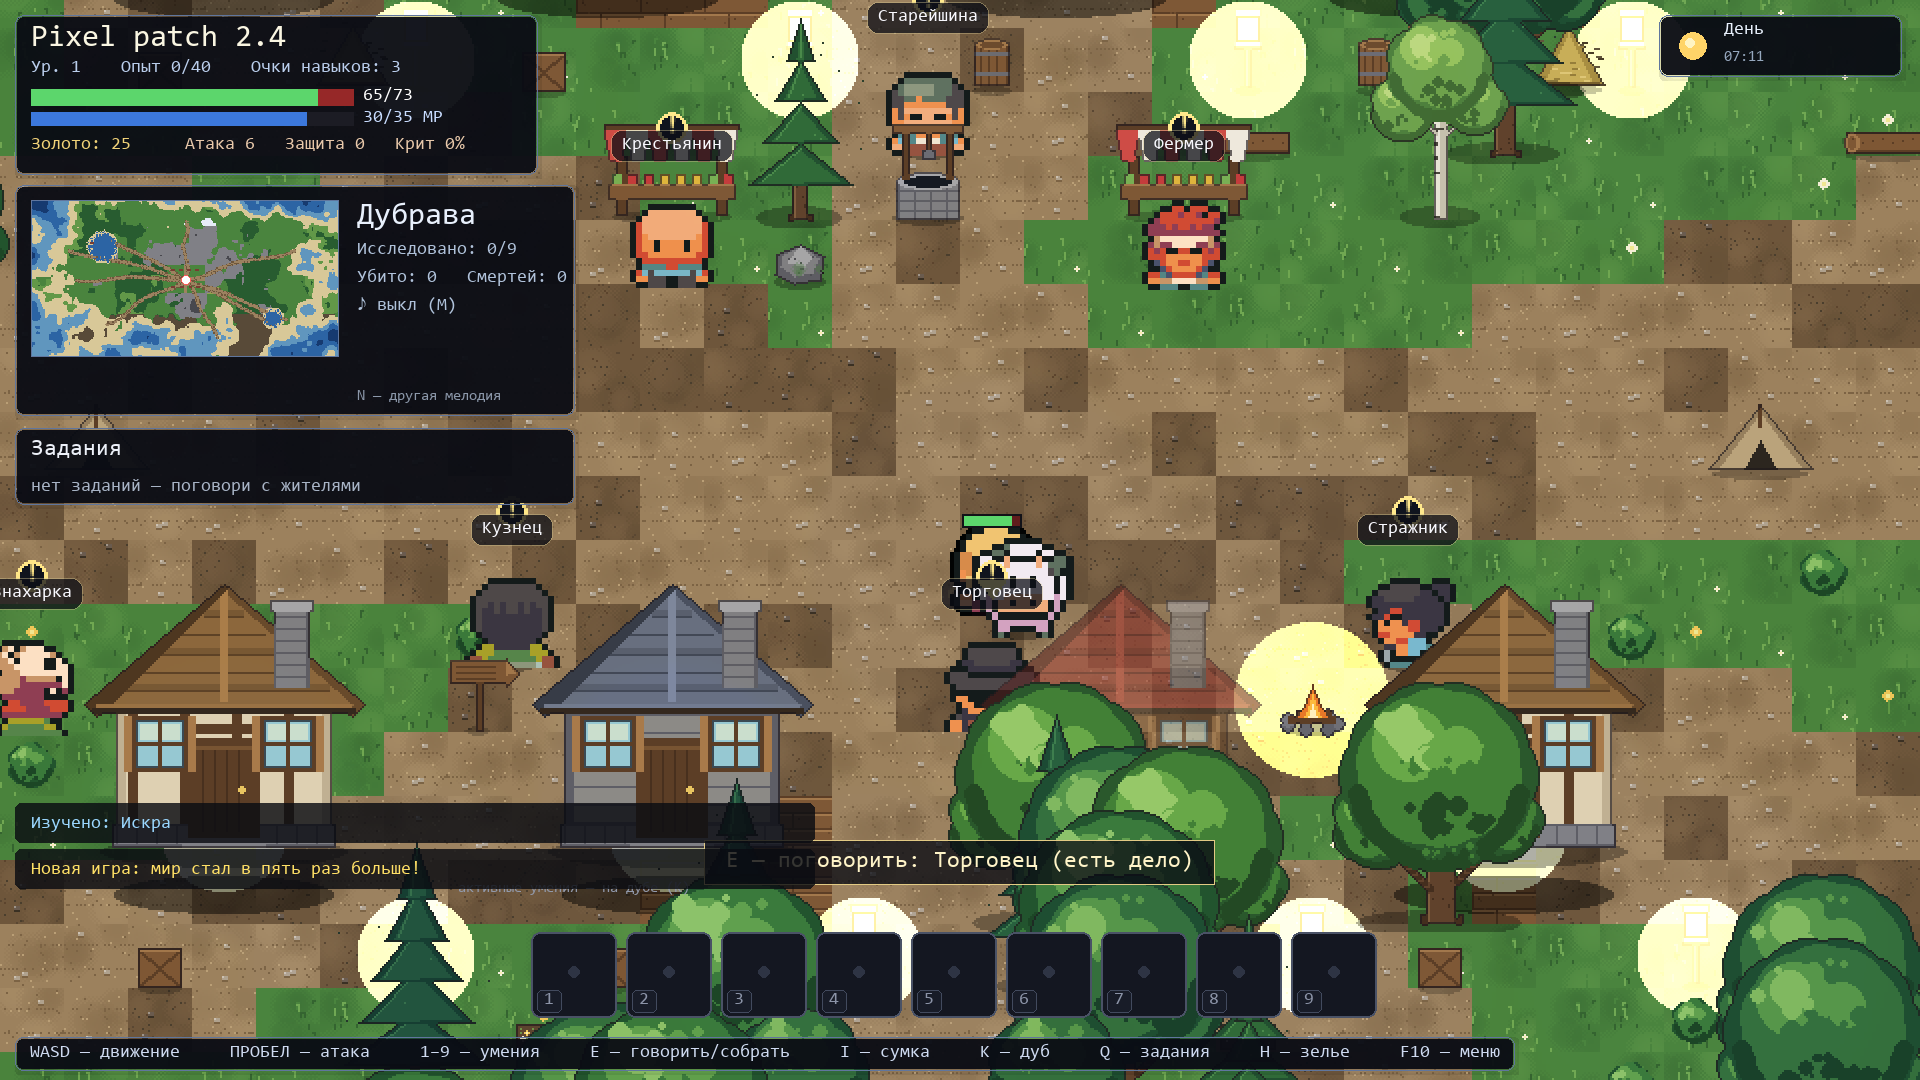
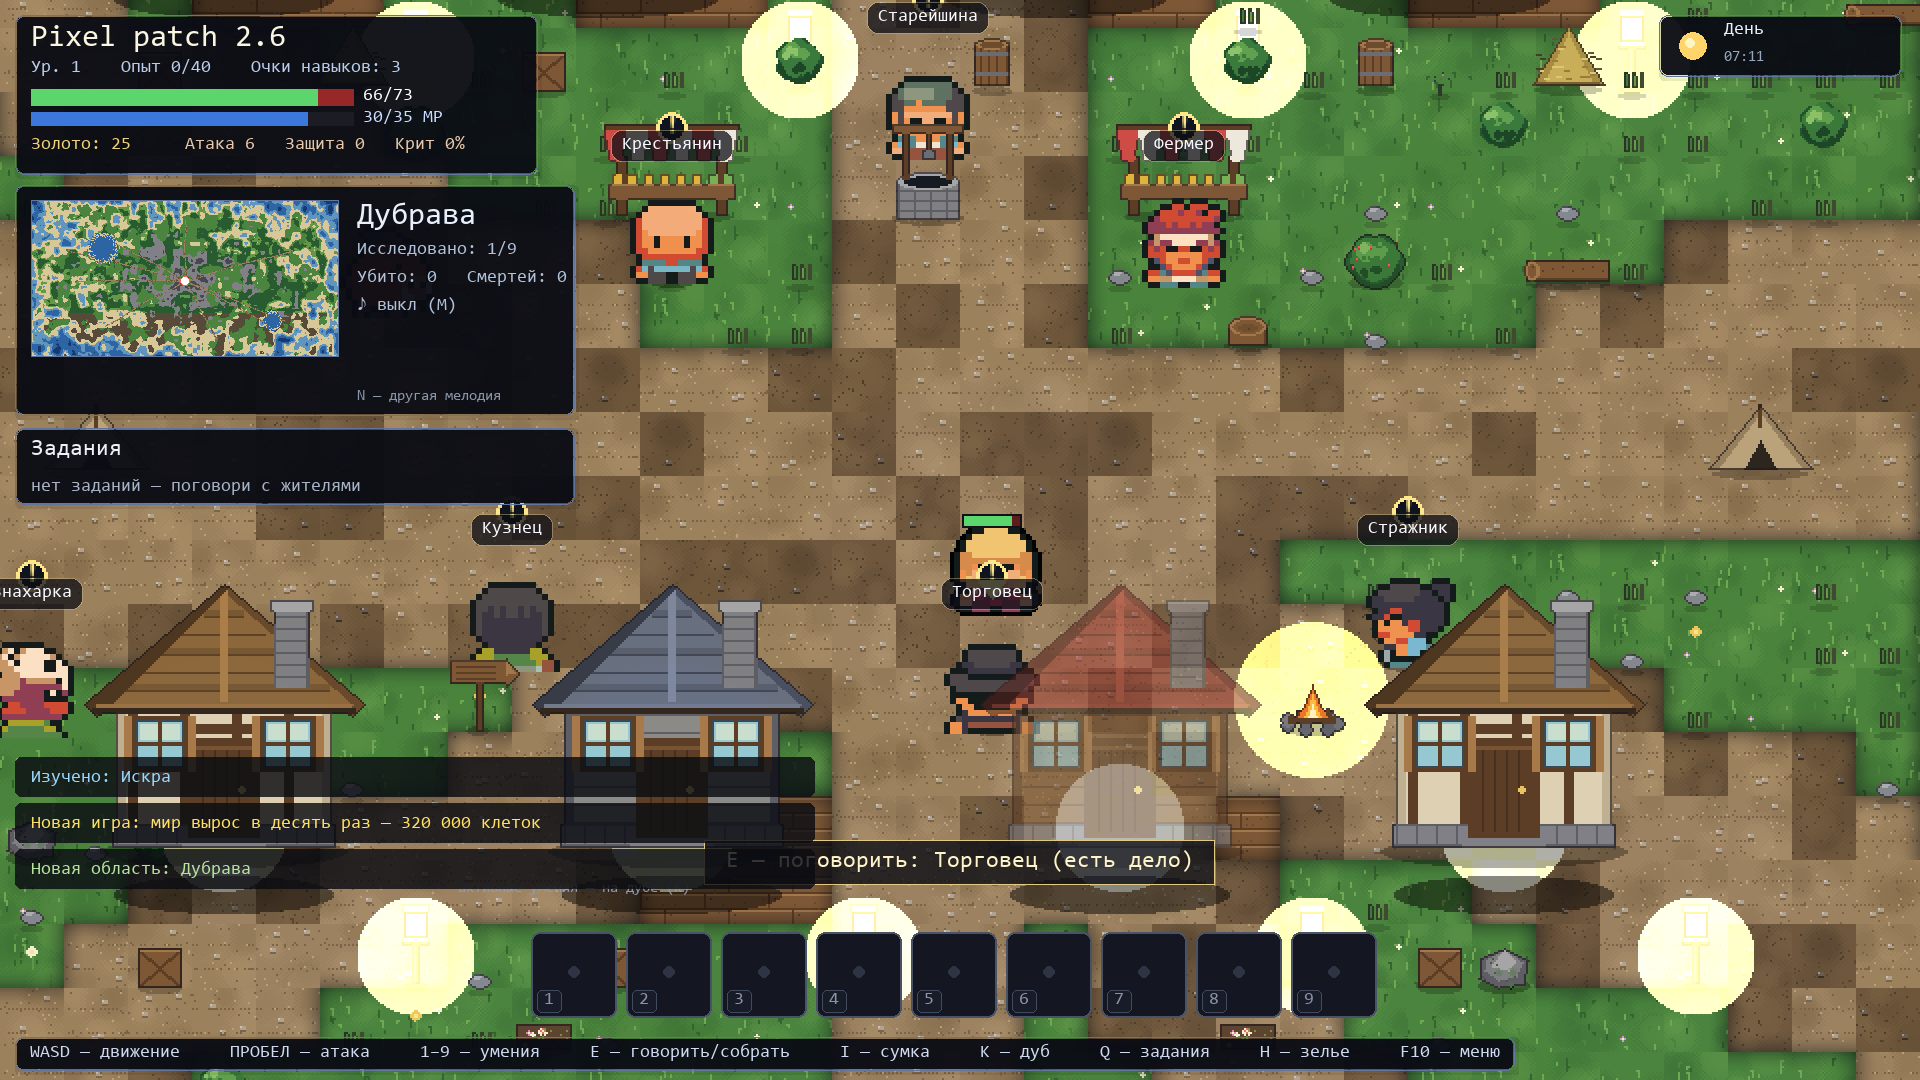
docs: скриншоты v2.6 (день, ночь, дикие земли)

diff --git a/README.md b/README.md
@@ -14,6 +14,8 @@
 
 ![Та же деревня ночью: свет костров, фонарей и окон](docs/screenshot-night.png)
 
+![Дикие земли: плотный декор и мягкие стыки биомов](docs/screenshot-wilds.png)
+
 ## Играть
 
 **Скачать `.exe`:** вкладка [Releases](../../releases) → `PixelPatch.exe` (Windows,
